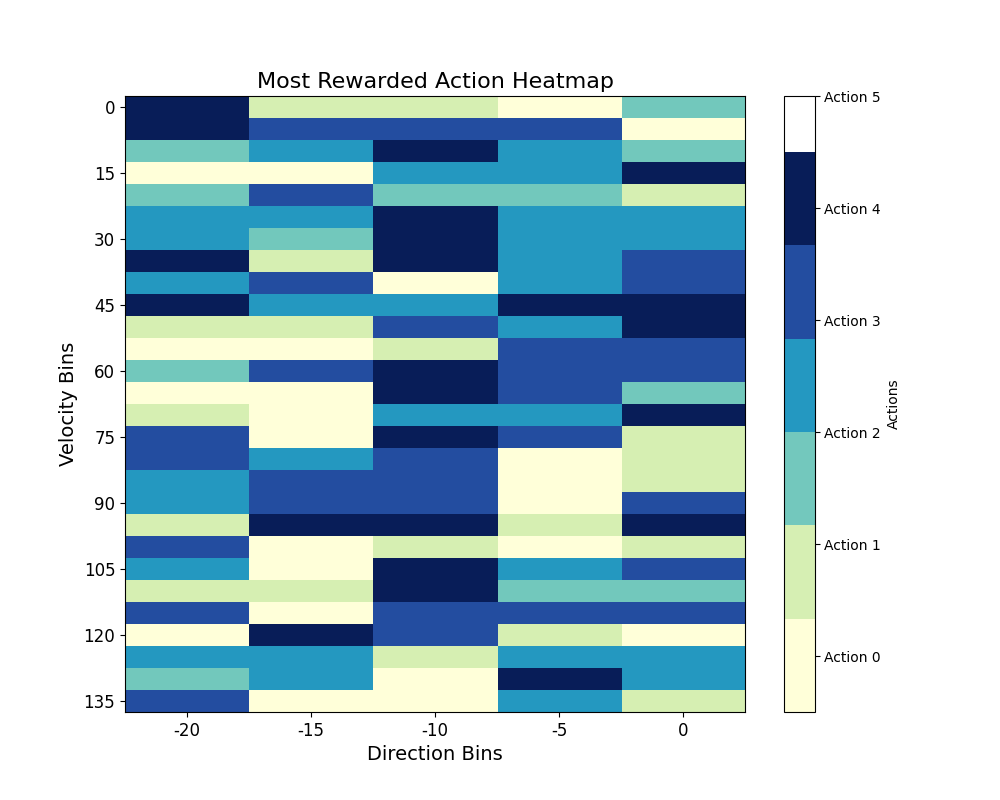
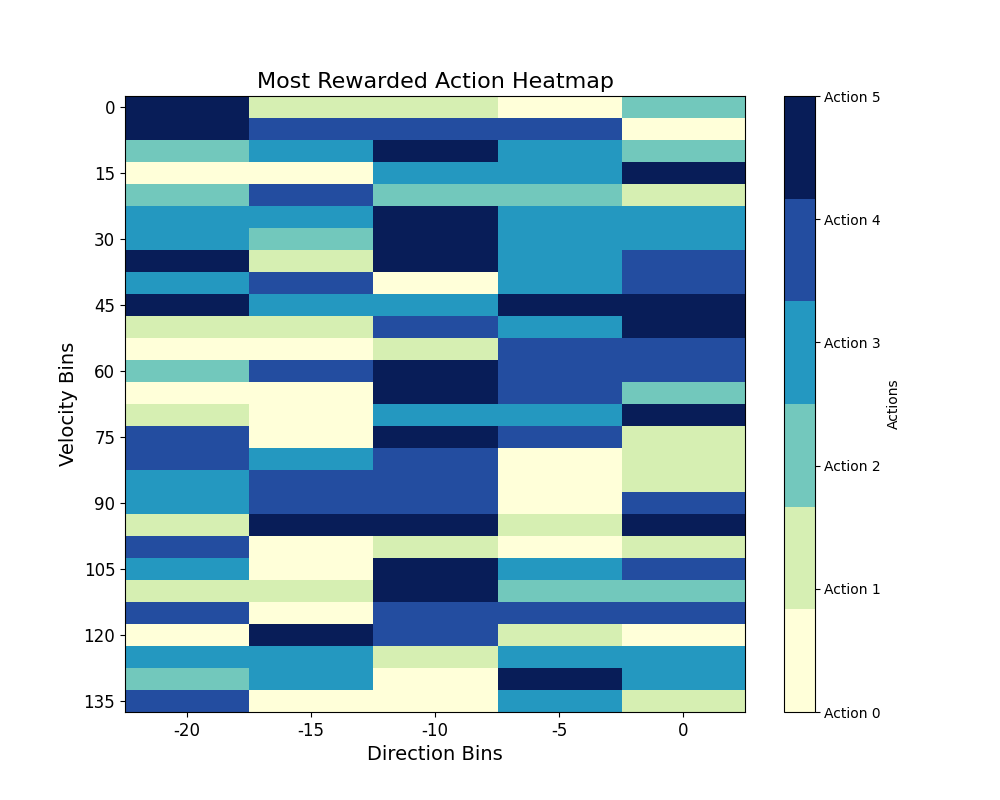
commit

diff --git a/train.py b/train.py
@@ -77,19 +77,19 @@ mdp.set_transition_probabilities(transition_probabilities)
 # Apply MaxEnt IRL
 epochs = 100
 learning_rate = 0.01
-rewards = irl(feature_matrix, mdp.n_actions, mdp.discount, transition_probabilities, trajectories, epochs, learning_rate)
+# rewards = irl(feature_matrix, mdp.n_actions, mdp.discount, transition_probabilities, trajectories, epochs, learning_rate)
 
-# Output the inferred rewards
-print("Inferred Rewards:", rewards.shape)
-print(rewards)
-# Save the inferred rewards as a CSV file
-np.savetxt('inferred_rewards.csv', rewards, delimiter=',')
+# # Output the inferred rewards
+# print("Inferred Rewards:", rewards.shape)
+# print(rewards)
+# # Save the inferred rewards as a CSV file
+# np.savetxt('inferred_rewards.csv', rewards, delimiter=',')
 
 rewards = np.loadtxt('inferred_rewards.csv', delimiter=',')
 
-plot_grid_based_rewards(rewards, n_direction_bins, n_velocity_bins)
-visualize_rewards_heatmap(rewards, n_states, mdp.n_actions)
-plot_most_rewarded_action_heatmap(rewards, n_direction_bins=5, n_vel_bins=28)
-plot_action_reward_subplots(rewards, n_direction_bins=5, n_vel_bins=28, n_actions=6)
-plot_velocity_action_reward_heatmap(rewards, n_direction_bins=5, n_vel_bins=28)
-plot_direction_action_reward_heatmap(rewards, n_direction_bins=5, n_vel_bins=28)
+# plot_grid_based_rewards(rewards, n_direction_bins, n_velocity_bins)
+# visualize_rewards_heatmap(rewards, n_states, mdp.n_actions)
+# plot_most_rewarded_action_heatmap(rewards, n_direction_bins=5, n_vel_bins=28)
+# plot_action_reward_subplots(rewards, n_direction_bins=5, n_vel_bins=28, n_actions=6)
+# plot_velocity_action_reward_heatmap(rewards, n_direction_bins=5, n_vel_bins=28)
+# plot_direction_action_reward_heatmap(rewards, n_direction_bins=5, n_vel_bins=28)

diff --git a/plot_evaluate.py b/plot_evaluate.py
@@ -64,10 +64,10 @@ def plot_most_rewarded_action_heatmap(rewards, n_direction_bins, n_vel_bins):
     plt.ylabel("Velocity Bins", fontsize=14)
 
     # Create a color bar with action labels
-    cbar = plt.colorbar(img, ticks=np.arange(np.max(action_grid) + 1))
+    cbar = plt.colorbar(img, ticks=np.arange(n_actions))
     cbar.set_label('Actions')
-    cbar.set_ticks(np.arange(np.max(action_grid) + 1) + 0.5)
-    cbar.set_ticklabels([f"Action {i}" for i in range(np.max(action_grid) + 1)])
+    cbar.set_ticks(np.arange(n_actions))
+    cbar.set_ticklabels([f"Action {i}" for i in range(n_actions)])
 
     plt.savefig("most_rewarded_action_heatmap.png")
 
